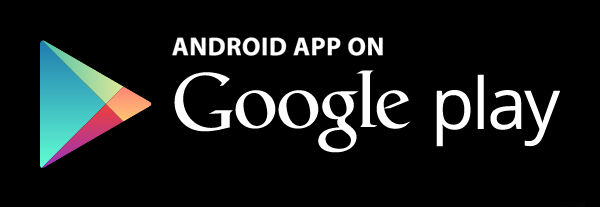
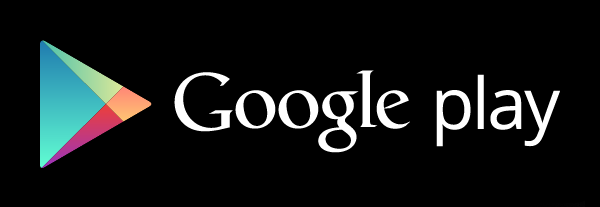
Updated store message

Changed region(s): [[0.27, 0.1739, 0.66, 0.2899]]

diff --git a/index.html b/index.html
@@ -8,13 +8,16 @@ layout: default
     <div class="wrapper">
 
       <div class="infos">
+        
         <h1>One Register Check-In Anywhere</h1>
         <h2>Add your personal info and use it anywhere<br> with just a tap.</h2>
 
-        <a href="https://play.google.com/store/search?q=pub:ZipCheckin">
-          <img alt="Get it on Google Play" src="https://developer.android.com/images/brand/en_generic_rgb_wo_60.png" />
-        </a>
-      </div>
+        <div class="stores store-banner">
+          <p>Coming soon on...</p>
+          <img src="/images/play.png"> <img src="/images/appstore.png">
+        </div>
+
+      </div> <!-- /infos -->
 
     </div>
   </section> <!-- /banner -->
@@ -94,10 +97,9 @@ layout: default
     </section> <!-- /types-of-zip -->
   </div>
   
-  <div class="play">
-    <a href="https://play.google.com/store/search?q=pub:ZipCheckin">
-      <img alt="Get it on Google Play" src="https://developer.android.com/images/brand/en_generic_rgb_wo_60.png" />
-    </a>
+  <div class="stores store-bottom">
+    <p>Coming soon on...</p>
+    <img src="/images/play.png"> <img src="/images/appstore.png">
   </div>
 
 </div>

diff --git a/_sass/_layout.scss b/_sass/_layout.scss
@@ -43,6 +43,41 @@ header.default {
 }
 
 
+// Store
+
+.stores {
+  margin-top: 65px;
+  
+  p {
+    margin: 0 0 5px 0;
+  }
+  
+  img {
+    margin-right: 5px;
+    width: 130px;
+    opacity: .4;
+  }
+}
+
+.store-banner {
+  p {
+    color: $white;
+  }
+}
+
+.store-bottom {
+  text-align: center;
+
+  p {
+    color: $grey1;
+  }
+  
+  img {
+    opacity: .2;
+  }
+}
+
+
 // Home
 
 .home {
@@ -84,10 +119,6 @@ header.default {
     font-weight: normal;
     margin-top: 15px;
     color: $white;
-  }
-  
-  a img {
-    margin-top: 70px;
   }
 }
 
@@ -181,22 +212,6 @@ header.default {
     width: 30%;
     margin-top: 40px;
   }
-}
-
-
-// Play button
-
-.play {
-  text-align: center;
-  
-  a img {
-    margin-top: 70px;
-
-    &:hover {
-      opacity: .9;
-    }
-  }
-  
 }
 
 
